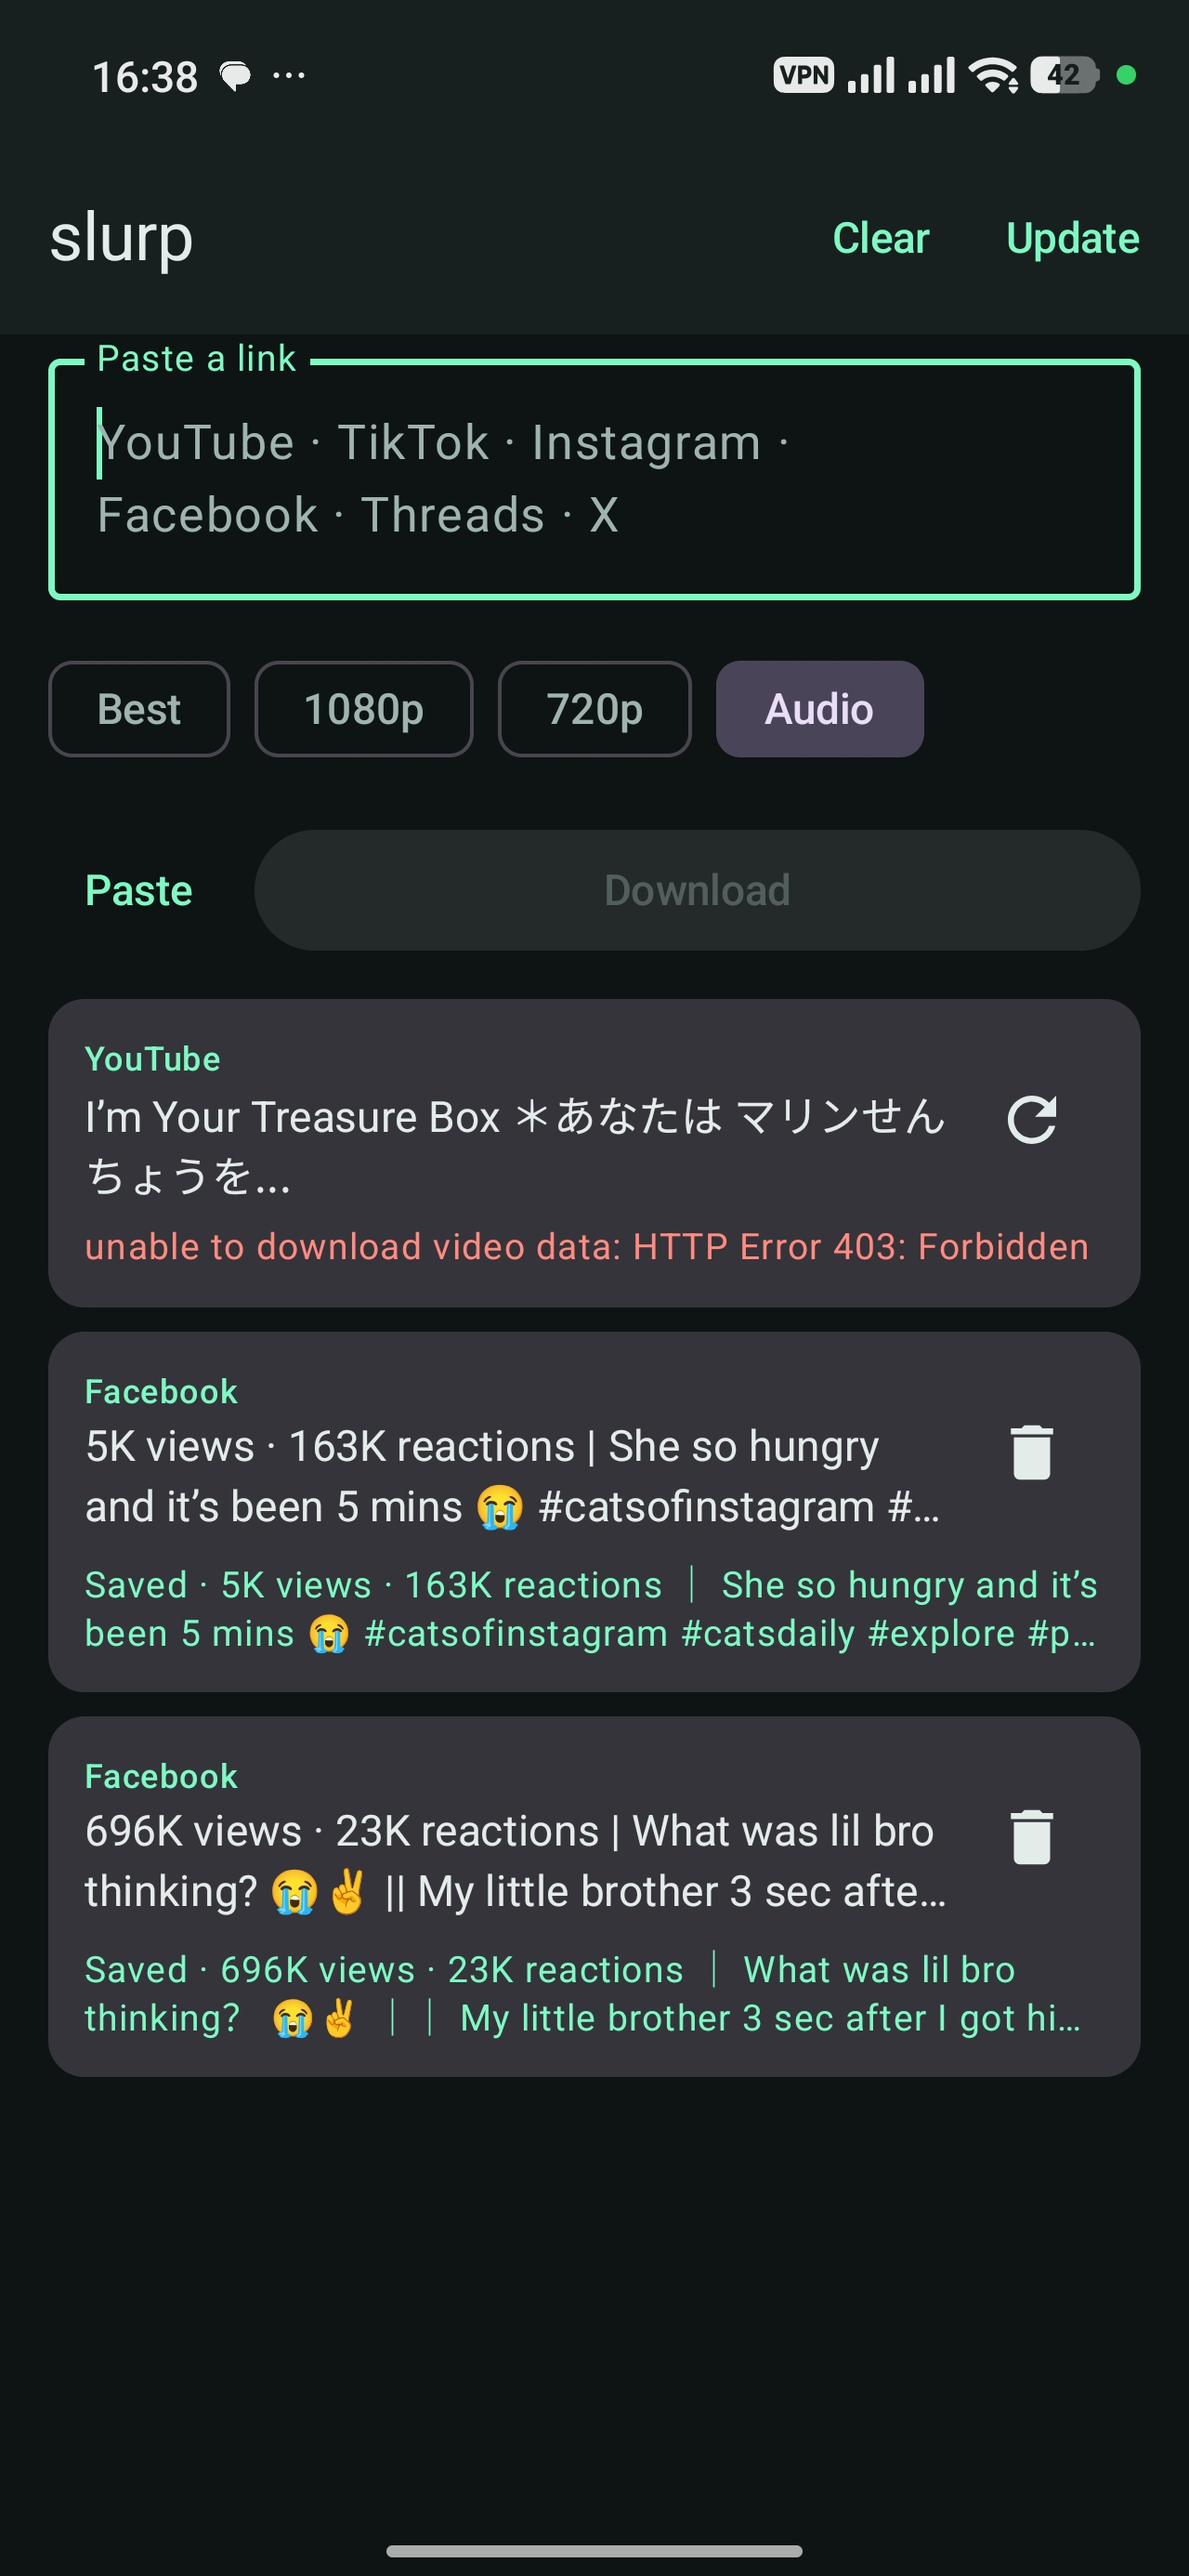
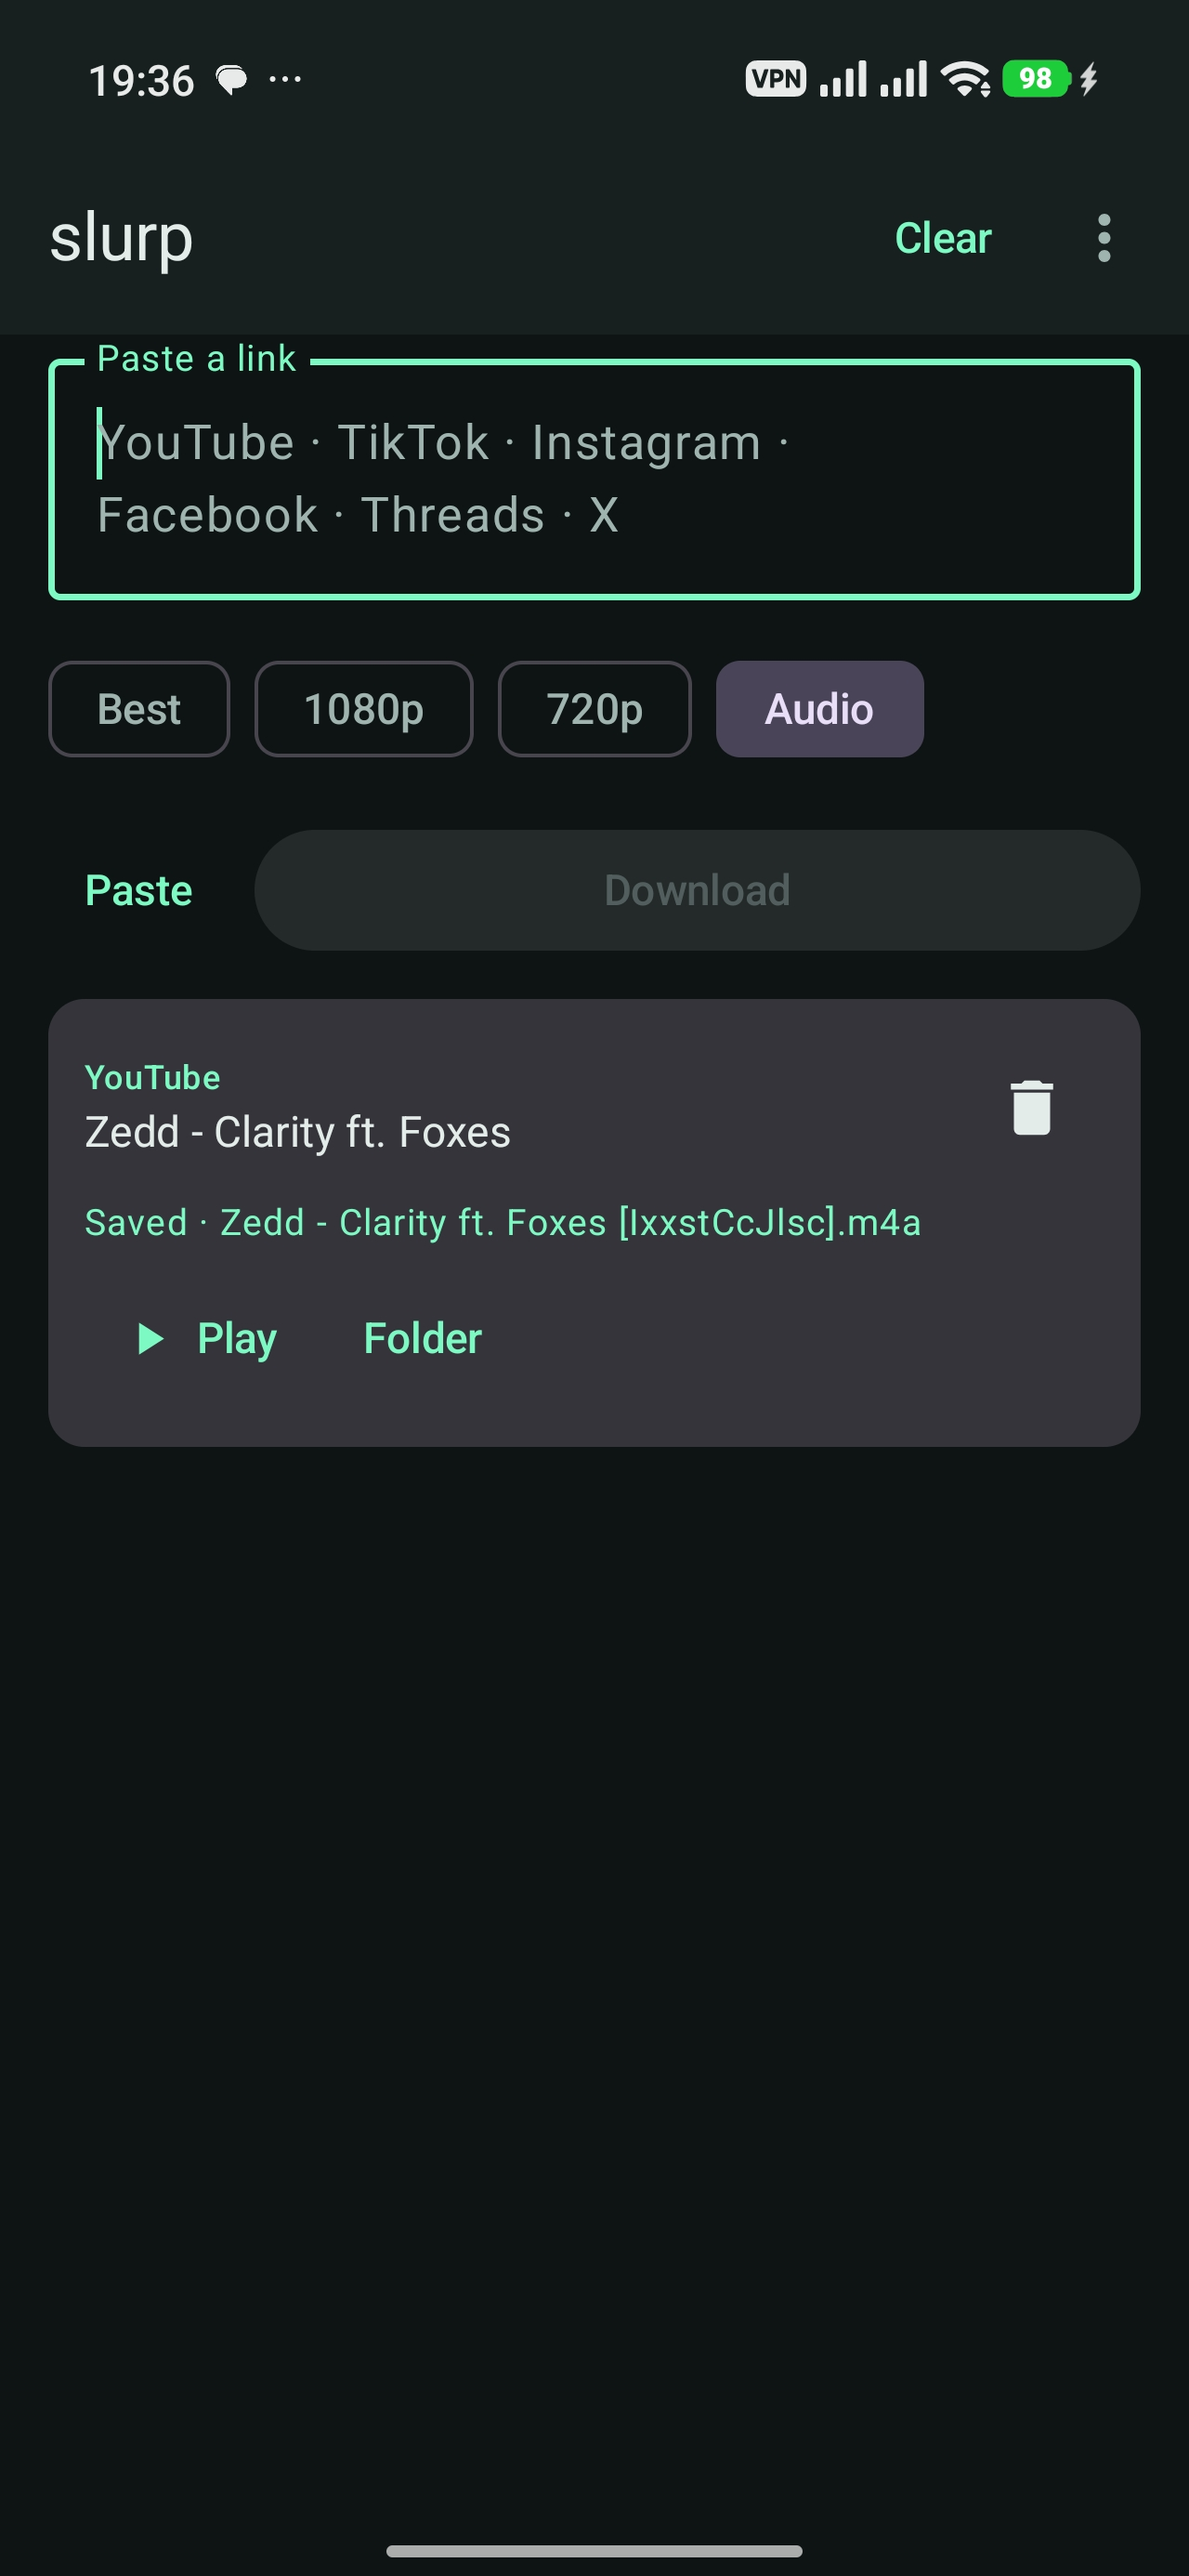
Retake the README screenshot on 1.3.1
The old one was from 1.0.0 and showed a top bar that no longer exists,
no Settings, and no Play or Folder buttons -- so the first picture a
visitor saw was of a version they could not install. This one is the
shipping build: a finished YouTube download, saved as m4a, with the two
buttons on the card and the overflow menu in the bar.

diff --git a/README.md b/README.md
@@ -11,7 +11,7 @@ sheet has finished closing.
 
 <p align="center">
   <img src="docs/queue.jpg" width="320"
-       alt="slurp's queue: two finished downloads reading Saved, and one failure showing the reason on the card">
+       alt="slurp after a download: a finished YouTube job reading Saved, with Play and Folder buttons on the card">
 </p>
 
 ---
